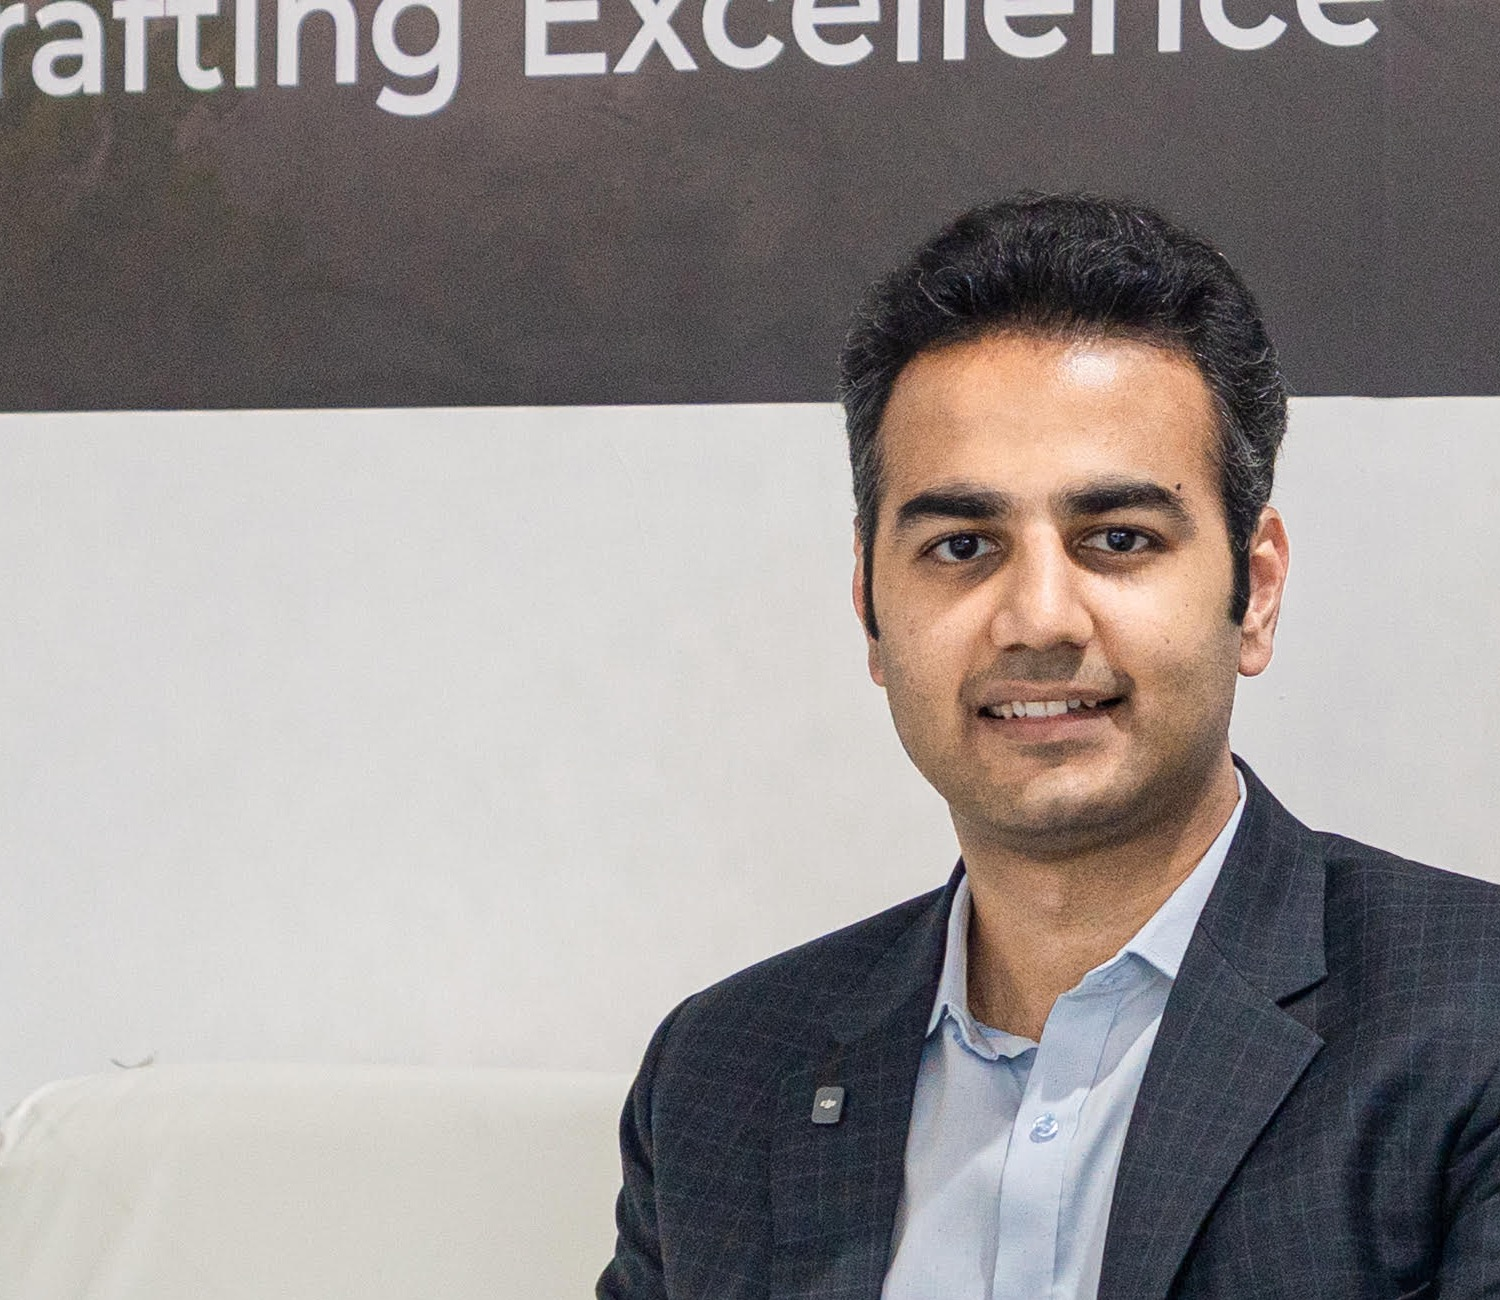
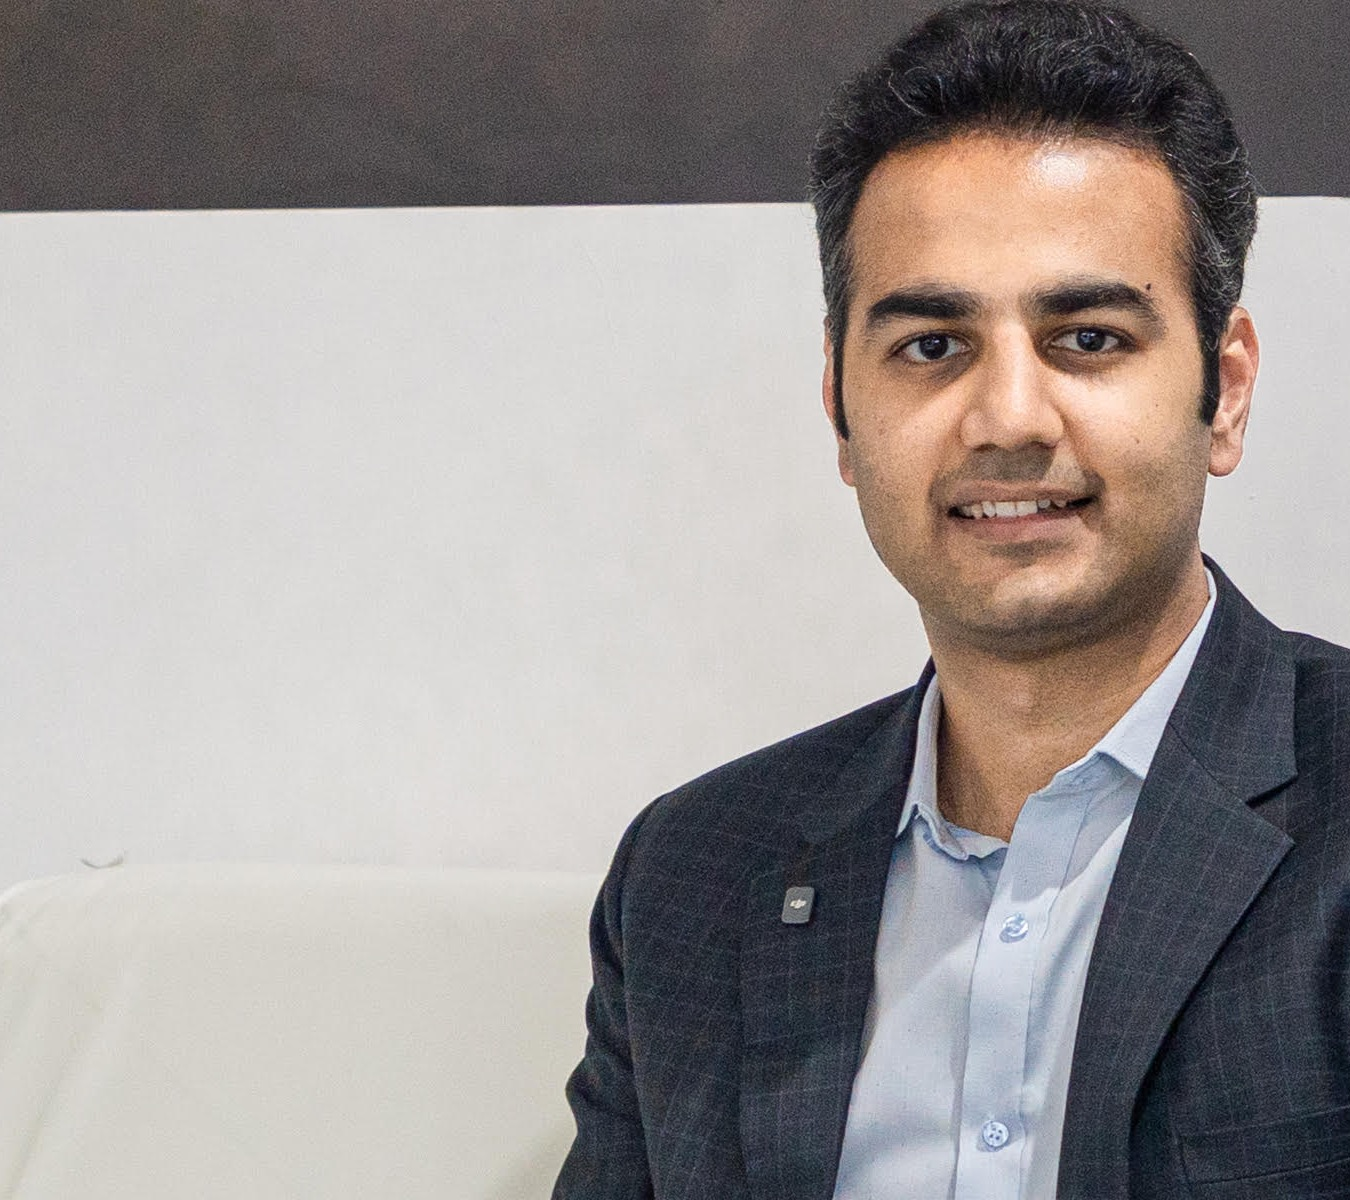
Footer equal columns, professional face-focused MD crop

diff --git a/assets/css/style.css b/assets/css/style.css
@@ -1357,8 +1357,8 @@ details[open] .faq-icon { transform: rotate(45deg); }
 
 .footer-grid {
   display: grid;
-  grid-template-columns: 1.6fr 1fr 1.2fr 1fr;
-  gap: 48px;
+  grid-template-columns: repeat(4, 1fr);
+  gap: 40px;
   align-items: start;
 }
 
@@ -1374,7 +1374,6 @@ details[open] .faq-icon { transform: rotate(45deg); }
   font-size: 0.87rem;
   color: rgba(255,255,255,0.55);
   line-height: 1.75;
-  max-width: 260px;
   margin-bottom: 12px;
 }
 
